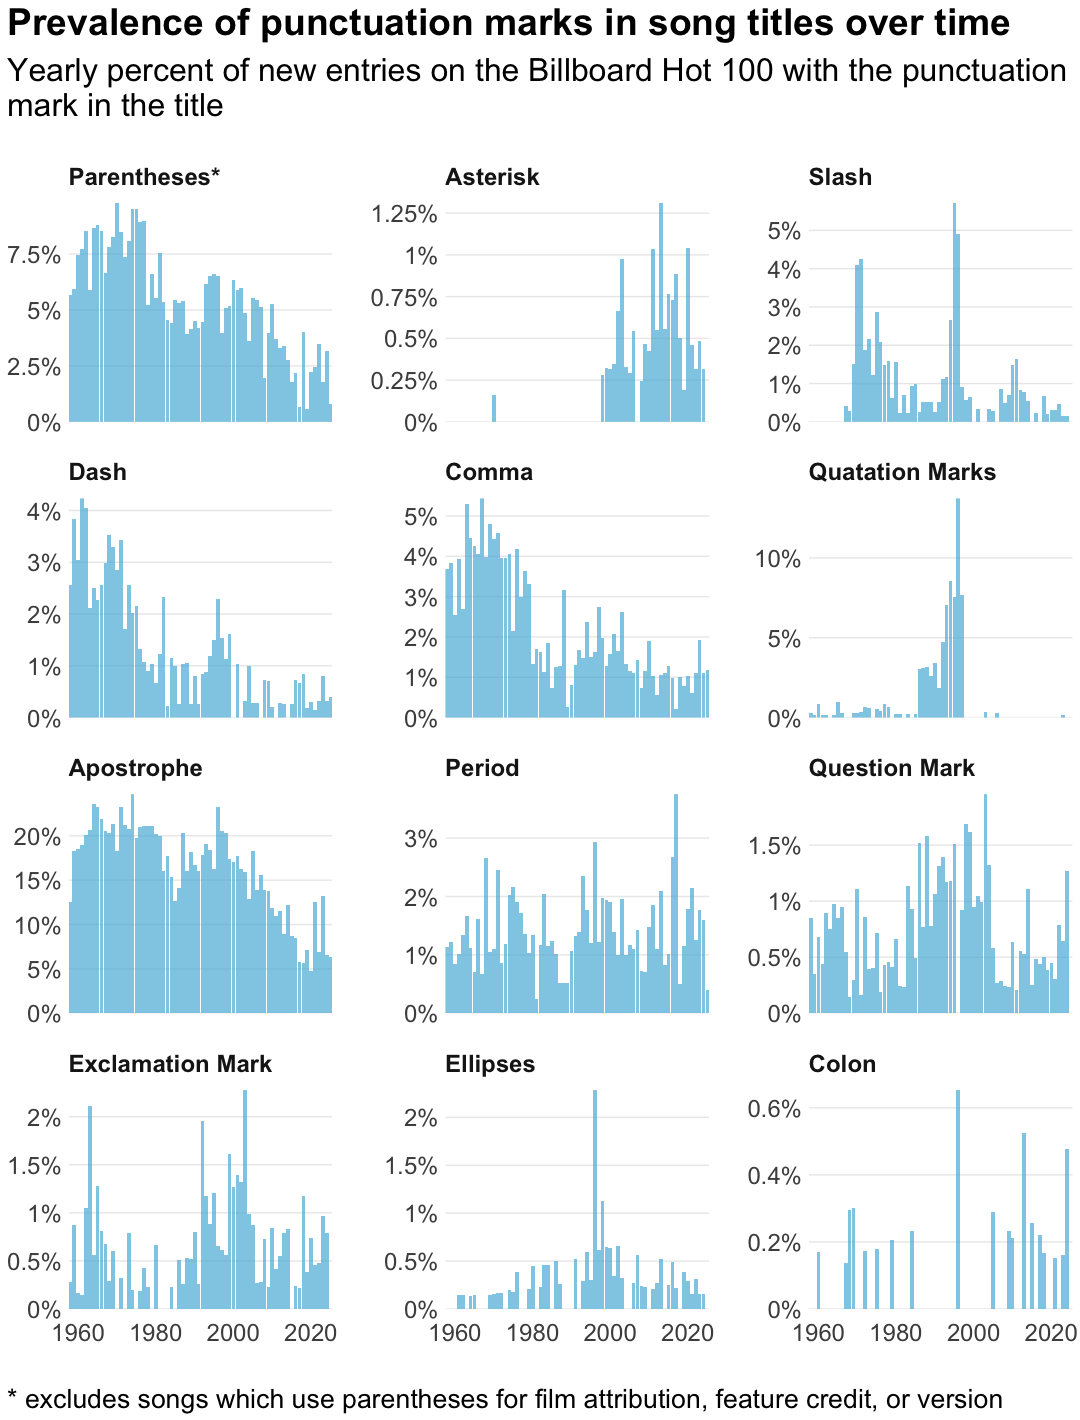
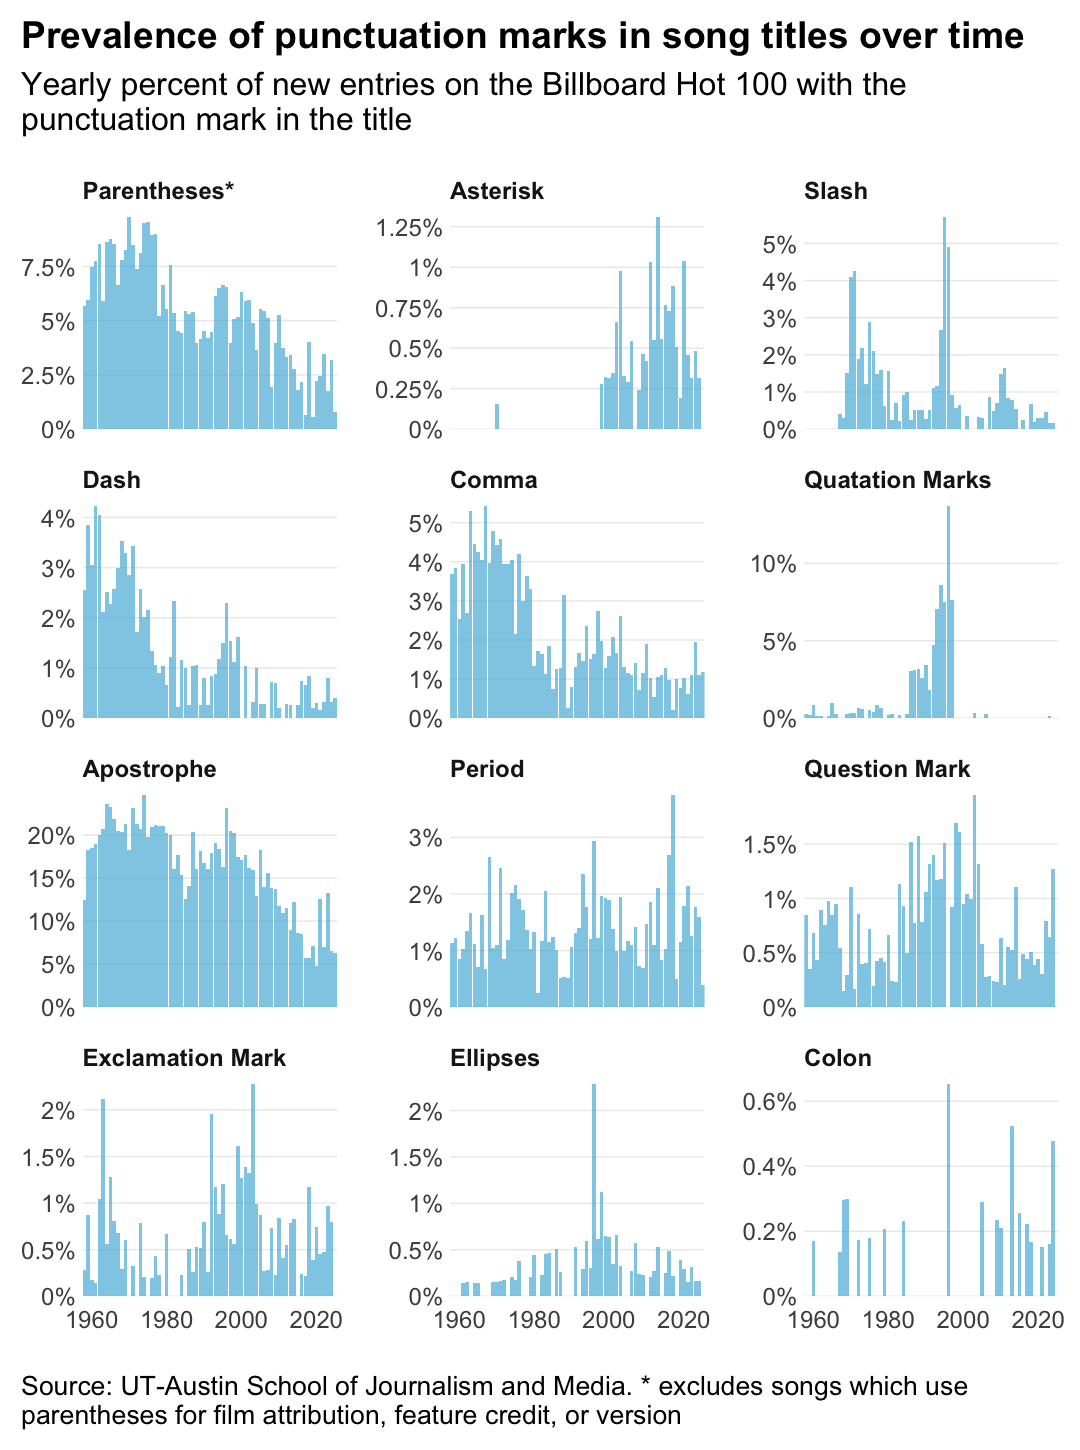
facets again and changing parenth default

diff --git a/src/stores.js b/src/stores.js
@@ -2,7 +2,7 @@ import { writable, readable } from "svelte/store";
 
 export const selectedOption = writable("parentheses");
 export const selectedMetric = writable("Percent");
-export const includeKeywordsParantheses = writable(false);
+export const includeKeywordsParantheses = writable(true);
 
 export const hoveredData = writable(undefined);
 export const hoveredDataYear = writable(undefined);
